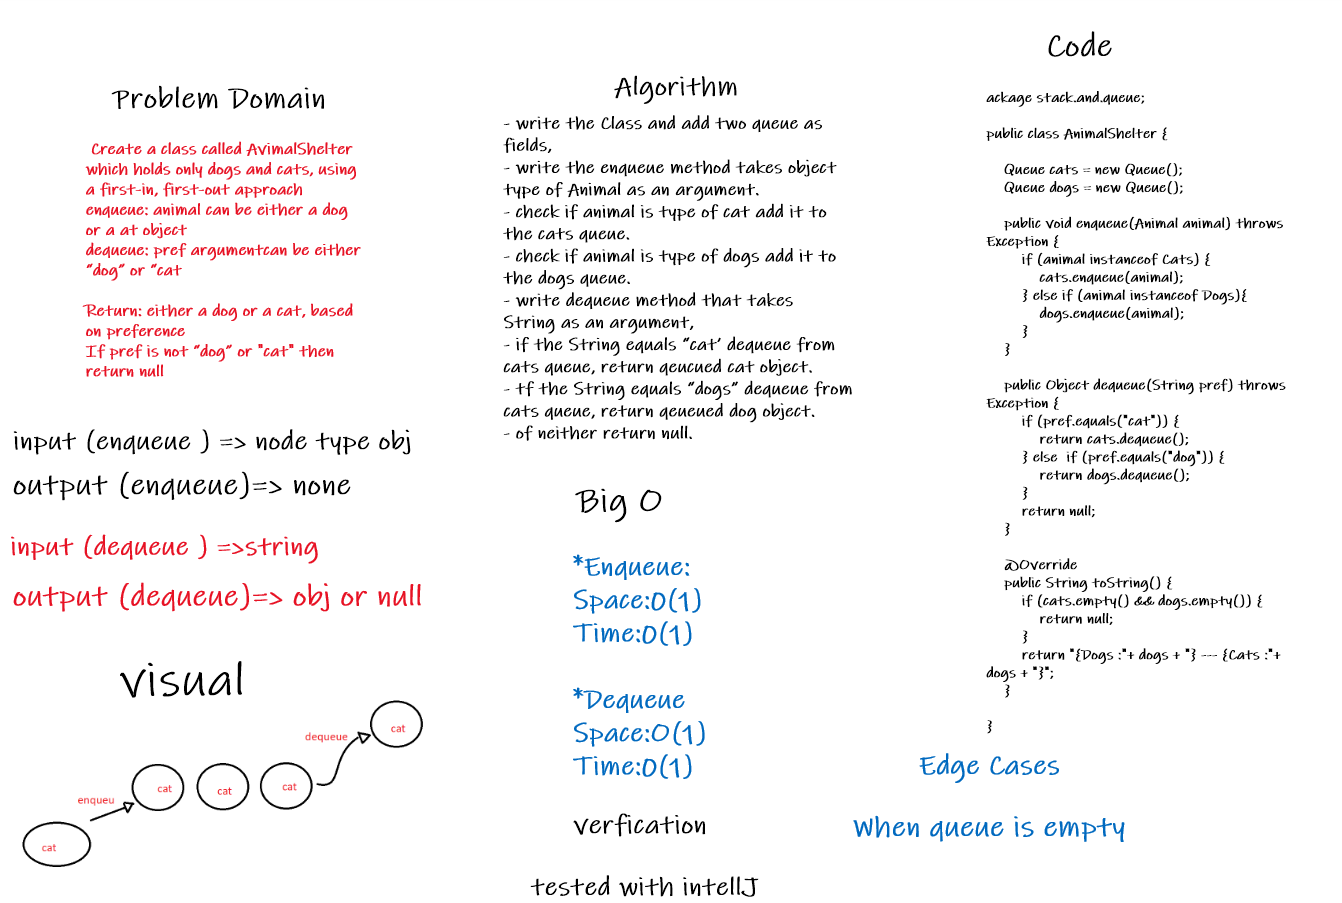
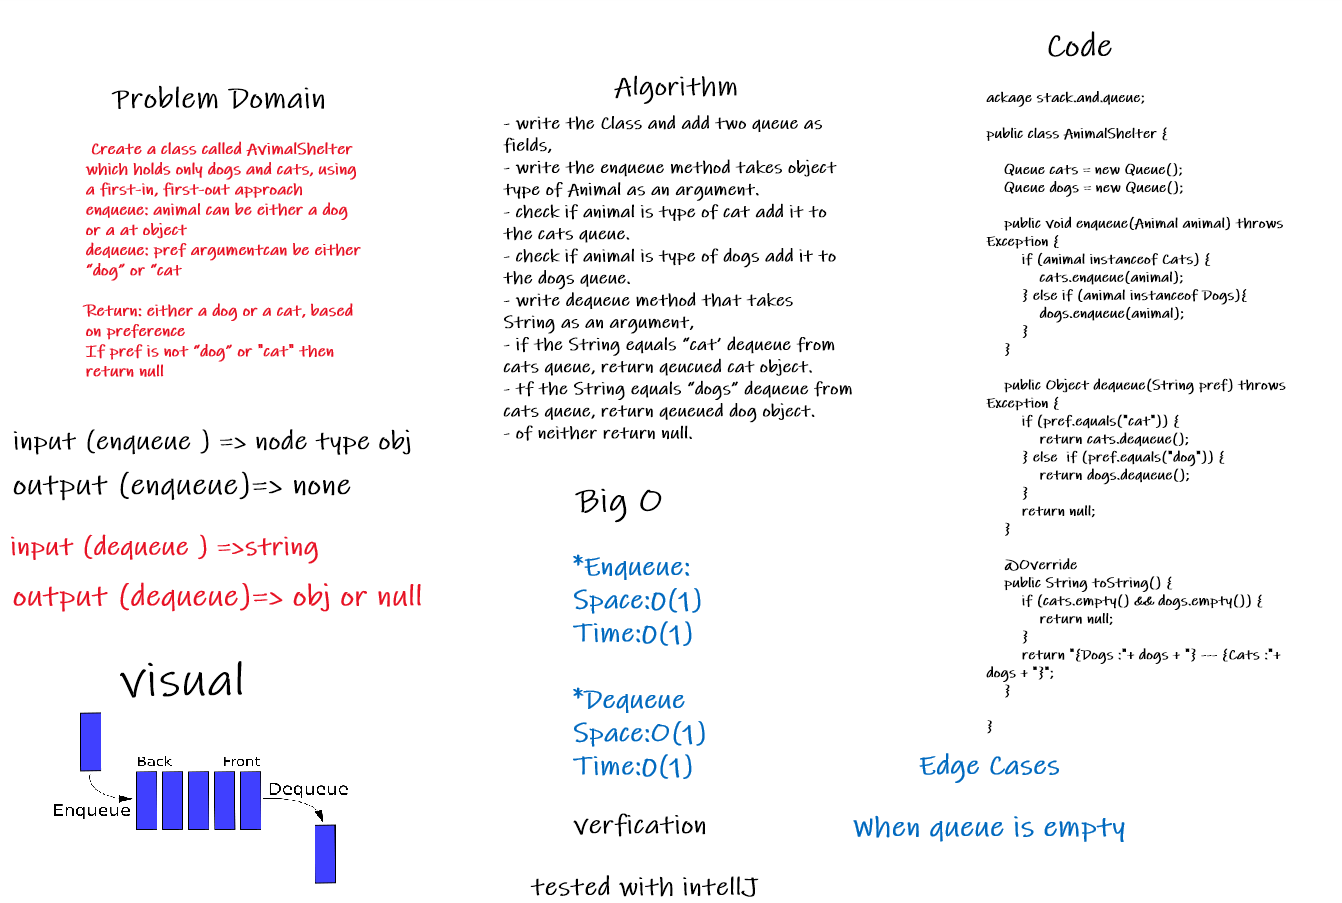
visual and test try

Changed region(s): [[0.0306, 0.7752, 0.3055, 0.9922]]

diff --git a/stack-and-queue/lib/src/test/java/stack/and/queue/LibraryTest.java b/stack-and-queue/lib/src/test/java/stack/and/queue/LibraryTest.java
@@ -58,6 +58,9 @@ class LibraryTest {
 
 
 
+
+
+
     }
 
 
@@ -113,4 +116,44 @@ class LibraryTest {
 
 
     }
+
+
+    @Test void animalShelter() throws Exception {
+
+        AnimalShelter animalTest = new AnimalShelter();
+
+        // Edge case "object is empty"
+        assertNull(animalTest.toString());
+
+        // Add cats in order "first in first out"
+        animalTest.enqueue(new Cats("Tom"));
+        animalTest.enqueue(new Cats("flash"));
+
+        assertEquals( "Front = Cat :Tom -> Cat :flash -> Null",animalTest.cats.toString());
+
+        // Add Dogs in order "first in first out"
+        animalTest.enqueue(new Dogs("Rex"));
+        animalTest.enqueue(new Dogs("Togo"));
+        assertEquals( "Front = Dog :Rex -> Dog :Togo -> Null",animalTest.dogs.toString());
+
+        // Add to both list
+        assertEquals( "{Dog List :Front = Dog :Rex -> Dog :Togo -> Null} --- {Cat List :Front = Dog :Rex -> Dog :Togo -> Null}" ,animalTest.toString());
+
+
+        // dequeue from list in order "first in first out"
+        animalTest.dequeue("cat");
+        animalTest.dequeue("dog");
+        assertEquals( "Front = Dog :Togo -> Null",animalTest.dogs.toString());
+        assertEquals( "Front = Cat :flash -> Null",animalTest.cats.toString());
+
+        // Return: either a dog or a cat, based on preference.
+        assertEquals("Dog :Togo" , animalTest.dequeue("dog").toString());
+        assertEquals("Cat :flash" , animalTest.dequeue("cat").toString());
+
+        // If pref is not "dog" or "cat" then return "null".
+        assertNull(animalTest.dequeue("none"));
+    }
+
+
+
 }
